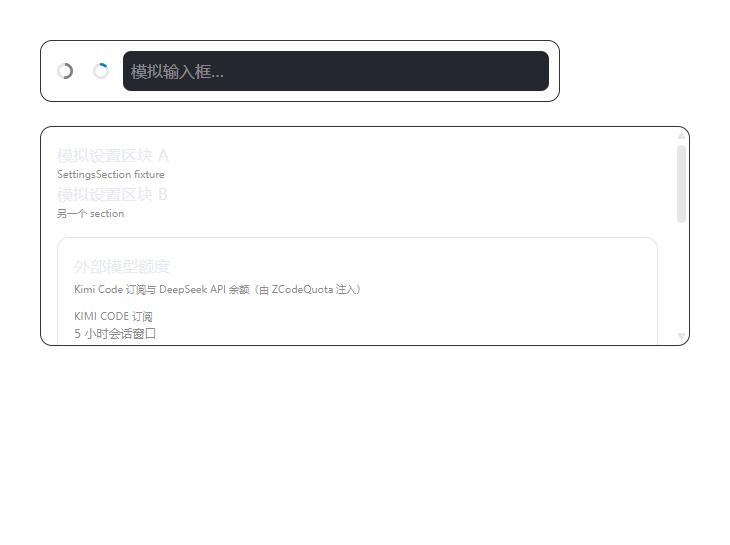
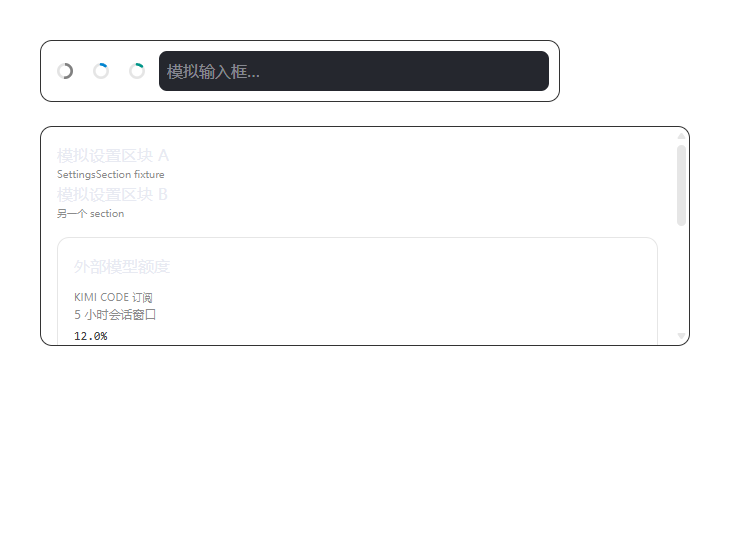
v0.1.7：DeepSeek 独立环（¥100 为满）、删除 剩xx/xx 副文本与面板底注

Changed region(s): [[0.0904, 0.4991, 0.4822, 0.6239], [0.1507, 0.0936, 0.3616, 0.1872]]

diff --git a/zquota-injector/payload/zquota-renderer.js b/zquota-injector/payload/zquota-renderer.js
@@ -19,7 +19,7 @@
   }
 
   const TID = "chat-context-usage-trigger";
-  const state = { data: null, error: "", fetching: false, lastFetch: 0, ringBtn: null, panel: null, hoverTimer: null, settingsCard: null, testidsDumped: false };
+  const state = { data: null, error: "", fetching: false, lastFetch: 0, kimiBtn: null, dsBtn: null, panel: null, hoverTimer: null, settingsCard: null, testidsDumped: false };
 
   const log = (m) => {
     console.debug("[zquota]", m);
@@ -83,16 +83,16 @@
     return token("--color-usage-chart-1", "#5b8cff");
   }
 
-  // ---------- 小环 ----------
+  // ---------- 小环（Kimi 用量环 + DeepSeek 余额环） ----------
 
-  function ringSvg(ratio) {
+  function ringSvg(ratio, colorOverride) {
     const C = 2 * Math.PI * 10;
     const used = ratio == null ? 0 : Math.max(0, Math.min(1, ratio));
     const off = C * (1 - used);
     // 颜色全部走内联样式 + 显式令牌：GLM 环的"重置机会变绿"等状态样式（祖先类/currentColor 继承）
-    // 无法波及本环——本环颜色只由 Kimi 用量分级决定（蓝/琥珀/红），与 GLM 状态语义无关。
+    // 无法波及本环。Kimi 环颜色由用量分级决定（蓝/琥珀/红）；DeepSeek 环固定用第二色阶。
     const track = token("--color-foreground-subtle", "#9aa3b5");
-    const color = ringColor(ratio);
+    const color = colorOverride || ringColor(ratio);
     return (
       `<svg viewBox="0 0 24 24" fill="none" aria-hidden="true" style="width:1em;height:1em;display:block">` +
       `<circle cx="12" cy="12" r="10" fill="none" transform="rotate(-90 12 12)" ` +
@@ -103,63 +103,93 @@
     );
   }
 
-  function ringTitle() {
+  function kimiRingTitle() {
     const d = state.data;
-    if (!d) return "外部模型额度（加载中…）";
-    const parts = [];
-    if (d.kimi?.ok) {
-      const w = d.kimi.rows.find((r) => r.key === "5h");
-      const m = d.kimi.rows.find((r) => r.key === "month");
-      const wTxt = w ? ((w.sub || "").replace(/^剩\s*/, "") || w.text) : "";
-      parts.push(`Kimi ${wTxt}${w && m ? " · " : ""}${m ? "月度 " + m.text : ""}`.trim());
-    } else parts.push(`Kimi：${d.kimi?.error || "不可用"}`);
-    if (d.deepseek?.ok) parts.push(`DeepSeek ${d.deepseek.rows[0]?.text || ""}`);
-    else parts.push(`DeepSeek：${d.deepseek?.error || "不可用"}`);
-    return parts.join(" ｜ ");
+    if (!d) return "Kimi 额度（加载中…）";
+    if (!d.kimi?.ok) return `Kimi：${d.kimi?.error || "不可用"}`;
+    const w = d.kimi.rows.find((r) => r.key === "5h");
+    const m = d.kimi.rows.find((r) => r.key === "month");
+    return `Kimi ${w ? "5h " + w.text : ""}${w && m ? " · " : ""}${m ? "月度 " + m.text : ""}`.trim();
+  }
+
+  // DeepSeek 环：以 ¥100 为满
+  const DS_FULL = 100;
+  function dsRatio(data) {
+    const b = data?.deepseek?.rows?.[0];
+    if (!b || b.value == null || !Number.isFinite(Number(b.value))) return null;
+    return Math.max(0, Math.min(1, Number(b.value) / DS_FULL));
+  }
+  function dsRingTitle() {
+    const d = state.data;
+    if (!d) return "DeepSeek 余额（加载中…）";
+    if (!d.deepseek?.ok) return `DeepSeek：${d.deepseek?.error || "不可用"}`;
+    const b = d.deepseek.rows[0];
+    return `DeepSeek 余额 ${b?.text || ""}（满 ¥${DS_FULL}）${d.deepseek.available === false ? " · 余额不足" : ""}`;
   }
 
   function updateRing() {
-    if (!state.ringBtn || !state.ringBtn.isConnected) return;
-    state.ringBtn.innerHTML = ringSvg(kimiRatio(state.data));
-    state.ringBtn.title = ringTitle();
-    state.ringBtn.setAttribute("aria-label", ringTitle());
+    if (state.kimiBtn?.isConnected) {
+      state.kimiBtn.innerHTML = ringSvg(kimiRatio(state.data));
+      state.kimiBtn.title = kimiRingTitle();
+      state.kimiBtn.setAttribute("aria-label", kimiRingTitle());
+    }
+    if (state.dsBtn?.isConnected) {
+      const r = dsRatio(state.data);
+      const color =
+        r == null
+          ? token("--color-foreground-subtle", "#9aa3b5")
+          : state.data?.deepseek?.available === false
+            ? token("--color-warning", "#ffb86c")
+            : token("--color-usage-chart-2", "#2dd4bf");
+      state.dsBtn.innerHTML = ringSvg(r, color);
+      state.dsBtn.title = dsRingTitle();
+      state.dsBtn.setAttribute("aria-label", dsRingTitle());
+    }
+  }
+
+  function buildRingBtn(trig, attrValue, fallbackTitle) {
+    const btn = trig.cloneNode(false); // 复用 GLM 触发器的全部类名（原生观感）
+    btn.removeAttribute("data-testid");
+    btn.removeAttribute("id");
+    btn.setAttribute("data-zquota-ring", attrValue);
+    btn.style.display = "inline-flex";
+    btn.style.alignItems = "center";
+    btn.style.fontSize = "16px"; // svg 用 1em
+    btn.innerHTML = ringSvg(null);
+    btn.title = fallbackTitle;
+    btn.addEventListener("mouseenter", () => openPanel(btn));
+    btn.addEventListener("mouseleave", () => scheduleHidePanel());
+    btn.addEventListener("focus", () => openPanel(btn));
+    btn.addEventListener("blur", () => scheduleHidePanel());
+    btn.addEventListener("click", (e) => {
+      e.preventDefault();
+      e.stopPropagation();
+      // 再次点击已展开的粘滞面板 → 收起
+      if (state.open && state.panel && state.panel.getAttribute("data-sticky") === "true") closePanel();
+      else openPanel(btn, true);
+    });
+    return btn;
   }
 
   function mountRing() {
     const trig = document.querySelector(`[data-testid="${TID}"]`);
     if (!trig || !trig.parentElement) return false;
-    if (state.ringBtn && state.ringBtn.isConnected) {
+    const parent = trig.parentElement;
+    if (state.kimiBtn?.isConnected && state.dsBtn?.isConnected) {
       // GLM 触发器重建时把我们的环挪到它旁边
-      if (state.ringBtn.previousElementSibling !== trig) trig.parentElement.insertBefore(state.ringBtn, trig.nextSibling);
+      if (state.kimiBtn.previousElementSibling !== trig) {
+        parent.insertBefore(state.kimiBtn, trig.nextSibling);
+        parent.insertBefore(state.dsBtn, state.kimiBtn.nextSibling);
+      }
       return true;
     }
     try {
-      const btn = trig.cloneNode(false); // 复用 GLM 触发器的全部类名（原生观感）
-      btn.removeAttribute("data-testid");
-      btn.removeAttribute("id");
-      btn.setAttribute("data-zquota-ring", "true");
-      btn.style.display = "inline-flex";
-      btn.style.alignItems = "center";
-      btn.style.fontSize = "16px"; // svg 用 1em
-      btn.innerHTML = ringSvg(null);
-      btn.title = "外部模型额度";
-      const show = () => openPanel(btn);
-      const hide = () => scheduleHidePanel();
-      btn.addEventListener("mouseenter", show);
-      btn.addEventListener("mouseleave", hide);
-      btn.addEventListener("focus", show);
-      btn.addEventListener("blur", hide);
-      btn.addEventListener("click", (e) => {
-        e.preventDefault();
-        e.stopPropagation();
-        // 再次点击已展开的粘滞面板 → 收起
-        if (state.open && state.panel && state.panel.getAttribute("data-sticky") === "true") closePanel();
-        else openPanel(btn, true);
-      });
-      trig.parentElement.insertBefore(btn, trig.nextSibling);
-      state.ringBtn = btn;
+      state.kimiBtn = buildRingBtn(trig, "kimi", "Kimi 额度");
+      state.dsBtn = buildRingBtn(trig, "ds", "DeepSeek 余额");
+      parent.insertBefore(state.kimiBtn, trig.nextSibling);
+      parent.insertBefore(state.dsBtn, state.kimiBtn.nextSibling);
       updateRing();
-      log("小环已挂载（克隆自 GLM 触发器）");
+      log("小环已挂载（Kimi + DeepSeek，克隆自 GLM 触发器）");
       return true;
     } catch (e) {
       log("小环挂载失败：" + e.message);
@@ -179,12 +209,9 @@
     val.appendChild(el("span", "font-mono text-foreground", row.text || (row.ratio != null ? (row.ratio * 100).toFixed(1) + "%" : "—")));
     head.appendChild(val);
     wrap.appendChild(head);
-    // 次要信息（如 5h 窗口的 剩 xx/xx）与重置说明合并为一条辅助行
-    if (row.sub || row.resetAbs || row.resetRel) {
-      const bits = [];
-      if (row.sub) bits.push(row.sub);
-      if (row.resetAbs || row.resetRel) bits.push("重置 " + row.resetAbs + (row.resetRel ? "（" + row.resetRel + "）" : ""));
-      wrap.appendChild(el("div", "text-ui-xs text-foreground-subtle", bits.join(" · ")));
+    // 重置说明
+    if (row.resetAbs || row.resetRel) {
+      wrap.appendChild(el("div", "text-ui-xs text-foreground-subtle", "重置 " + row.resetAbs + (row.resetRel ? "（" + row.resetRel + "）" : "")));
     }
     if (row.ratio != null) {
       const track = el("div", "h-1.5 overflow-hidden rounded-full");
@@ -285,15 +312,10 @@
     const body = el("div");
     body.style.marginTop = "10px";
     p.appendChild(body);
-    const foot = el("div", "flex items-center justify-between text-ui-xs");
-    foot.style.cssText = `color:${token("--color-foreground-subtle", "#8b93a7")};margin-top:12px;padding-top:8px;border-top:1px solid ${token("--color-border", "rgba(127,127,127,.15)")}`;
-    foot.appendChild(el("span", null, () => (state.data ? `更新于 ${fmtTime(state.data.ts)} · 每 5 分钟` : "—")));
-    foot.appendChild(el("span", null, "ZCodeQuota"));
-    p.appendChild(foot);
-    document.body.appendChild(p);
     // 面板自身的悬停语义：移入取消待隐藏，移出安排隐藏
     p.addEventListener("mouseenter", () => clearTimeout(state.hoverTimer));
     p.addEventListener("mouseleave", () => scheduleHidePanel());
+    document.body.appendChild(p);
     state.panel = p;
     state._panelBody = body;
     return p;
@@ -346,10 +368,6 @@
     h.style.margin = "0 0 4px";
     h.textContent = "外部模型额度";
     card.appendChild(h);
-    const sub = el("p", "text-ui-xs");
-    sub.style.color = token("--color-foreground-subtle", "#9aa3b5");
-    sub.textContent = "Kimi Code 订阅与 DeepSeek API 余额（由 ZCodeQuota 注入）";
-    card.appendChild(sub);
     const body = el("div");
     body.style.marginTop = "12px";
     card.appendChild(body);
@@ -440,7 +458,7 @@
       document.addEventListener("pointerdown", (e) => {
         if (!state.open || !state.panel) return;
         const t = e.target;
-        if (state.panel.contains(t) || (state.ringBtn && state.ringBtn.contains(t))) return;
+        if (state.panel.contains(t) || (state.kimiBtn && state.kimiBtn.contains(t)) || (state.dsBtn && state.dsBtn.contains(t))) return;
         closePanel();
       });
       document.addEventListener("keydown", (e) => {

diff --git a/zquota-injector/payload/zquota-main.js b/zquota-injector/payload/zquota-main.js
@@ -118,7 +118,6 @@ async function fetchQuotaImpl(intervalMinutes) {
             label: mins ? `${mins >= 60 ? mins / 60 + " 小时" : mins + " 分钟"}会话窗口` : "会话窗口",
             ratio,
             text: ratio != null ? (ratio * 100).toFixed(1) + "%" : "",
-            sub: Number.isFinite(remaining) ? `剩 ${remaining}/${limit}` : "",
             resetAbs: abs,
             resetRel: rel,
           };
@@ -146,6 +145,7 @@ async function fetchQuotaImpl(intervalMinutes) {
           key: b.currency,
           label: b.currency === "CNY" ? "人民币余额" : `${b.currency} 余额`,
           text: `¥${b.total_balance}`,
+          value: Number(b.total_balance),
           sub: `充值 ${b.topped_up_balance} · 赠送 ${b.granted_balance}`,
         }));
         payload.deepseek.available = Boolean(data?.is_available);
